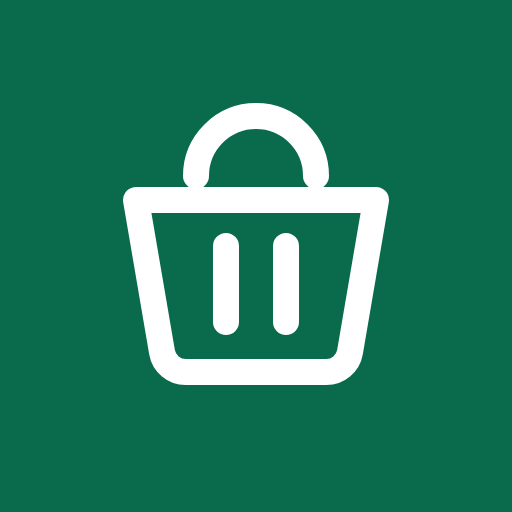
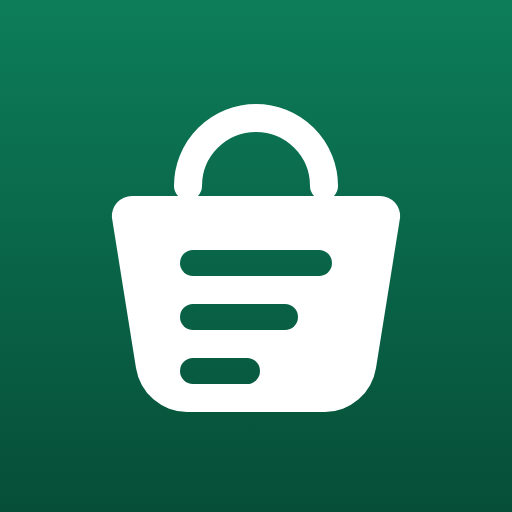
Plus de zoom au double appui, une couleur par rayon, des écrans vides dessinés
Deux appuis rapides faisaient zoomer — une gêne constante dans une liste où
l'on coche vite. « touch-action: manipulation » supprime ce geste et lui
seul : le pincement pour agrandir reste, il ne faut jamais l'enlever.

Une pastille de couleur par rayon. En magasin on cherche le rayon avant
l'article, et une couleur se repère plus vite qu'un mot. Seule la teinte
change d'un rayon à l'autre ; saturation et clarté sont fixées une fois par
thème, ce qui garantit que les douze restent lisibles et se ressemblent en
famille. Le placard, qui n'est pas un rayon de magasin, garde une pastille
neutre pour que les en-têtes restent alignés.

Les écrans vides passent du texte gris seul à une icône au trait, une
phrase, parfois une action. Du gris au milieu de rien ressemble à une panne ;
un dessin dit que l'endroit attend.

Icône de l'application redessinée : le panier est plein, et la liste y est
creusée en réserve, sur un dégradé. Elle tient à 32 px.

Au passage, un défaut du générateur d'icônes : il repérait le dessin par un
attribut de style pour fabriquer la version masquable. Le nouveau dessin ne
le portait pas, donc la version Android n'était plus réduite et le masque
rond aurait rogné le panier. Le repère est maintenant un identifiant, et le
script s'arrête s'il ne le trouve pas.

935 vérifications, 0 échec.

Claude-Session: https://claude.ai/code/session_01QrhSJiSNWj4DUmnzmWgyFB

diff --git a/liste-courses.html b/liste-courses.html
@@ -99,6 +99,10 @@
 /* ——— BASE ——— */
 *,*::before,*::after{ box-sizing:border-box; }
 html,body{ margin:0; padding:0; }
+/* Deux appuis rapides sur un téléphone font zoomer : c'est une gêne constante
+   dans une liste où l'on coche vite. « manipulation » supprime ce geste — et
+   lui seul : le pincement pour agrandir reste, il ne faut jamais l'enlever. */
+html{ touch-action:manipulation; }
 body{
   background:var(--bg);
   color:var(--texte);
@@ -226,6 +230,10 @@ main{
   stroke-width:1.7; stroke-linecap:round; stroke-linejoin:round; }
 .tabbar button[aria-current="page"]{ color:var(--accent); }
 .tabbar button[aria-current="page"] .ic{ stroke-width:2; }
+@media (prefers-color-scheme: dark){
+  :root:not([data-theme="clair"]) .pastille-rayon{ background:hsl(var(--teinte, 0) 46% 60%); }
+}
+:root[data-theme="sombre"] .pastille-rayon{ background:hsl(var(--teinte, 0) 46% 60%); }
 
 @media (min-width:900px){
   #app{ flex-direction:row; }
@@ -255,6 +263,9 @@ main{
 .tpt{ font-size:var(--t-micro); }
 .gras{ font-weight:var(--g-moyen); }
 .rien{ color:var(--texte-doux); padding:var(--e6) var(--e2); text-align:center; font-size:var(--t-base); }
+.etat-vide{ display:flex; flex-direction:column; align-items:center; gap:var(--e2); }
+.etat-vide p{ margin:0; }
+.ic-vide{ width:46px; height:46px; stroke-width:1.25; color:var(--border-fort); }
 
 .btn{
   font:inherit; font-size:var(--t-base); font-weight:var(--g-moyen); cursor:pointer;
@@ -482,6 +493,15 @@ label.champ > span{ display:block; font-size:var(--t-petit); font-weight:var(--g
   border-right:1.6px solid currentColor; border-bottom:1.6px solid currentColor;
   transform:rotate(-45deg); transition:transform 140ms ease; margin-left:2px; }
 .rayon[open] > summary::before{ transform:rotate(45deg); }
+/* Une pastille par rayon : en magasin on cherche le rayon avant l'article, et
+   une couleur se repère plus vite qu'un mot. Seule la teinte change d'un rayon
+   à l'autre ; saturation et clarté sont fixées ici, une paire par thème, pour
+   que les douze restent lisibles et se ressemblent en famille. */
+.pastille-rayon{
+  flex:0 0 auto; width:9px; height:9px; border-radius:50%;
+  background:hsl(var(--teinte, 0) 52% 42%);
+}
+.rayon.sans-teinte .pastille-rayon{ background:var(--border-fort); }
 /* Dans un magasin on cherche le NOM du produit : c'est lui qui porte le gras,
    la quantité se lit une fois qu'on l'a trouvé. */
 .article{ display:flex; align-items:center; gap:0; position:relative; }
@@ -776,6 +796,14 @@ const RAYONS = [
   ['autre',          'Autre'],
 ];
 const RAYON_LIBELLE = Object.fromEntries(RAYONS);
+// Une teinte par rayon. Seule la teinte change ; saturation et clarté sont
+// fixées en CSS, une paire pour le thème clair et une pour le sombre — c'est
+// ce qui garantit que les douze restent lisibles et se ressemblent en famille.
+const RAYON_TEINTE = {
+  fruits_legumes: 128, boucherie: 355, poissonnerie: 202, cremerie: 45,
+  charcuterie: 18, epicerie_salee: 32, epicerie_sucree: 320, pain: 38,
+  surgeles: 190, boissons: 172, hygiene: 268, autre: 0,
+};
 const RAYONS_IDS = RAYONS.map(function (r) { return r[0]; });
 const ORDRE_RAYONS_DEFAUT = RAYONS_IDS.slice();
 
@@ -2757,7 +2785,21 @@ const ICONES = {
   televerser: '<path d="M12 20V9"/><path d="M7.5 13.5 12 9l4.5 4.5"/><path d="M5 5h14"/>',
   balai: '<path d="M14 4 9 9"/><path d="M11.5 6.5 17.5 12.5"/><path d="M9.5 8.5 4.2 13.8a2 2 0 0 0 0 2.8l3.2 3.2a2 2 0 0 0 2.8 0l5.3-5.3z"/>',
   refaire: '<path d="M20 12a8 8 0 1 1-2.4-5.7"/><path d="M20 4v5h-5"/>',
+  loupe: '<circle cx="10.5" cy="10.5" r="6.5"/><path d="M15.4 15.4 21 21"/>',
 };
+/**
+ * Écran vide : une icône au trait, une phrase, parfois une action. Du texte
+ * gris seul au milieu d'un écran ressemble à une panne ; un dessin dit que
+ * l'endroit est simplement en attente.
+ */
+function etatVide(nomIcone, phrase, bouton) {
+  return el('div', { class: 'rien etat-vide' }, [
+    icone(nomIcone, 'ic-vide'),
+    el('p', { text: phrase }),
+    bouton || null,
+  ]);
+}
+
 /** Icône du jeu, en SVG. La taille se règle en CSS par la classe. */
 function icone(nom, classe) {
   const n = document.createElementNS('http://www.w3.org/2000/svg', 'svg');
@@ -3595,10 +3637,9 @@ function vueSemaine() {
 
     if (!D.recettes.length) {
       remplirFiltres(0);
-      grille.appendChild(el('div', { class: 'rien' }, [
-        el('p', { text: 'Aucune recette pour l\'instant.' }),
-        el('button', { type: 'button', class: 'btn principal', text: 'Créer ma première recette', onclick: function () { allerA('recettes'); ouvrirEditeurRecette(null); } }),
-      ]));
+      grille.appendChild(etatVide('livre', 'Aucune recette pour l\'instant.',
+        el('button', { type: 'button', class: 'btn principal', text: 'Créer ma première recette',
+          onclick: function () { allerA('recettes'); ouvrirEditeurRecette(null); } })));
       return;
     }
 
@@ -3626,7 +3667,7 @@ function vueSemaine() {
       ]));
     }
     if (!trouvees.length) {
-      grille.appendChild(el('div', { class: 'rien', text: 'Aucune recette ne correspond.' }));
+      grille.appendChild(etatVide('loupe', 'Aucune recette ne correspond.'));
       return;
     }
 
@@ -4106,9 +4147,7 @@ function vueListe() {
   v.appendChild(entete);
 
   if (!modele.articles.length && !modele.placard.length) {
-    v.appendChild(el('div', { class: 'rien' }, [
-      el('p', { text: 'La liste est vide.' }),
-    ]));
+    v.appendChild(etatVide('panier', 'La liste est vide.'));
   }
 
   // Rayons
@@ -4122,8 +4161,11 @@ function vueListe() {
     const ouvert = (cleOuvert in etat.rayonsOuverts) ? etat.rayonsOuverts[cleOuvert] : !g.tousCoches;
 
     const bloc = el('details', { class: 'rayon', open: ouvert });
+    bloc.style.setProperty('--teinte', RAYON_TEINTE[g.rayon] !== undefined ? RAYON_TEINTE[g.rayon] : 0);
+    if (g.rayon === 'autre') bloc.classList.add('sans-teinte');
     bloc.addEventListener('toggle', function () { etat.rayonsOuverts[cleOuvert] = bloc.open; });
     const resume = el('summary', {}, [
+      el('span', { class: 'pastille-rayon', 'aria-hidden': 'true' }),
       el('span', { text: g.libelle }),
       el('span', { class: 'compte', text: g.nbCoches + '/' + g.articles.length }),
     ]);
@@ -4146,9 +4188,12 @@ function vueListe() {
 
   // Section placard, repliée, hors total
   if (modele.placard.length) {
-    const bloc = el('details', { class: 'rayon', open: etat.placardOuvert });
+    // Le placard n'est pas un rayon du magasin : pastille neutre, pour que les
+    // en-têtes restent alignés sans lui inventer une couleur.
+    const bloc = el('details', { class: 'rayon sans-teinte', open: etat.placardOuvert });
     bloc.addEventListener('toggle', function () { etat.placardOuvert = bloc.open; });
     bloc.appendChild(el('summary', {}, [
+      el('span', { class: 'pastille-rayon', 'aria-hidden': 'true' }),
       el('span', { text: 'À vérifier au placard' }),
       el('span', { class: 'compte', text: modele.placard.length + ' produit' + (modele.placard.length > 1 ? 's' : '') }),
     ]));
@@ -4215,8 +4260,8 @@ function vueListe() {
   }
   if (afficherPrix()) {
     v.appendChild(el('p', { class: 'tpt doux', text:
-      'Total de la liste : ' + texteTotal(t.totalTous, t.sansPrixTous) +
-      ' · les produits de placard et les articles ajoutés à la main ne sont pas comptés.' }));
+      'Total : ' + texteTotal(t.totalTous, t.sansPrixTous) +
+      ' · hors placard et ajouts manuels' }));
   }
 
   window.scrollTo(0, scroll);
@@ -4755,7 +4800,11 @@ function vueRecettes() {
     }).sort(function (a, b) { return a.nom.localeCompare(b.nom, 'fr'); });
 
     if (!recettes.length) {
-      grille.appendChild(el('div', { class: 'rien', text: D.recettes.length ? 'Aucune recette ne correspond.' : 'Aucune recette. Créez la première.' }));
+      grille.appendChild(D.recettes.length
+        ? etatVide('loupe', 'Aucune recette ne correspond.')
+        : etatVide('livre', 'Aucune recette pour l\'instant.',
+            el('button', { type: 'button', class: 'btn principal', text: 'Créer ma première recette',
+              onclick: function () { ouvrirEditeurRecette(null); } })));
       return;
     }
     recettes.forEach(function (r) {
@@ -5880,7 +5929,7 @@ function sectionHistorique() {
   const carteHisto = el('div', { class: 'carte' });
   carteHisto.appendChild(el('h2', { text: 'Historique des semaines' }));
   if (!D.historique.length) {
-    carteHisto.appendChild(el('p', { class: 'doux pt', text: 'Aucune semaine archivée.' }));
+    carteHisto.appendChild(etatVide('archive', 'Aucune semaine archivée.'));
   } else {
     D.historique.forEach(function (h, idx) {
       const noms = h.selection.map(function (s) { const r = recetteParId(s.recetteId); return r ? r.nom + ' ×' + s.portions : null; }).filter(Boolean);
@@ -6312,7 +6361,7 @@ function panneauDuJour(corps, iso) {
 
   const repas = selectionDuJour(D, iso);
   if (!repas.length) {
-    bloc.appendChild(el('p', { class: 'pt doux', style: 'margin:.2rem 0', text: 'Aucun repas prévu ce jour-là.' }));
+    bloc.appendChild(etatVide('calendrier', 'Aucun repas prévu ce jour-là.'));
   } else {
     repas.forEach(function (e) {
       const r = recetteParId(e.recetteId);

diff --git a/sw.js b/sw.js
@@ -4,7 +4,7 @@
    Bump de VERSION à chaque livraison : c'est ce qui déclenche une réinstallation. */
 'use strict';
 
-const VERSION = 'v15';
+const VERSION = 'v16';
 const CACHE = 'liste-courses-' + VERSION;
 
 const COQUILLE = [
